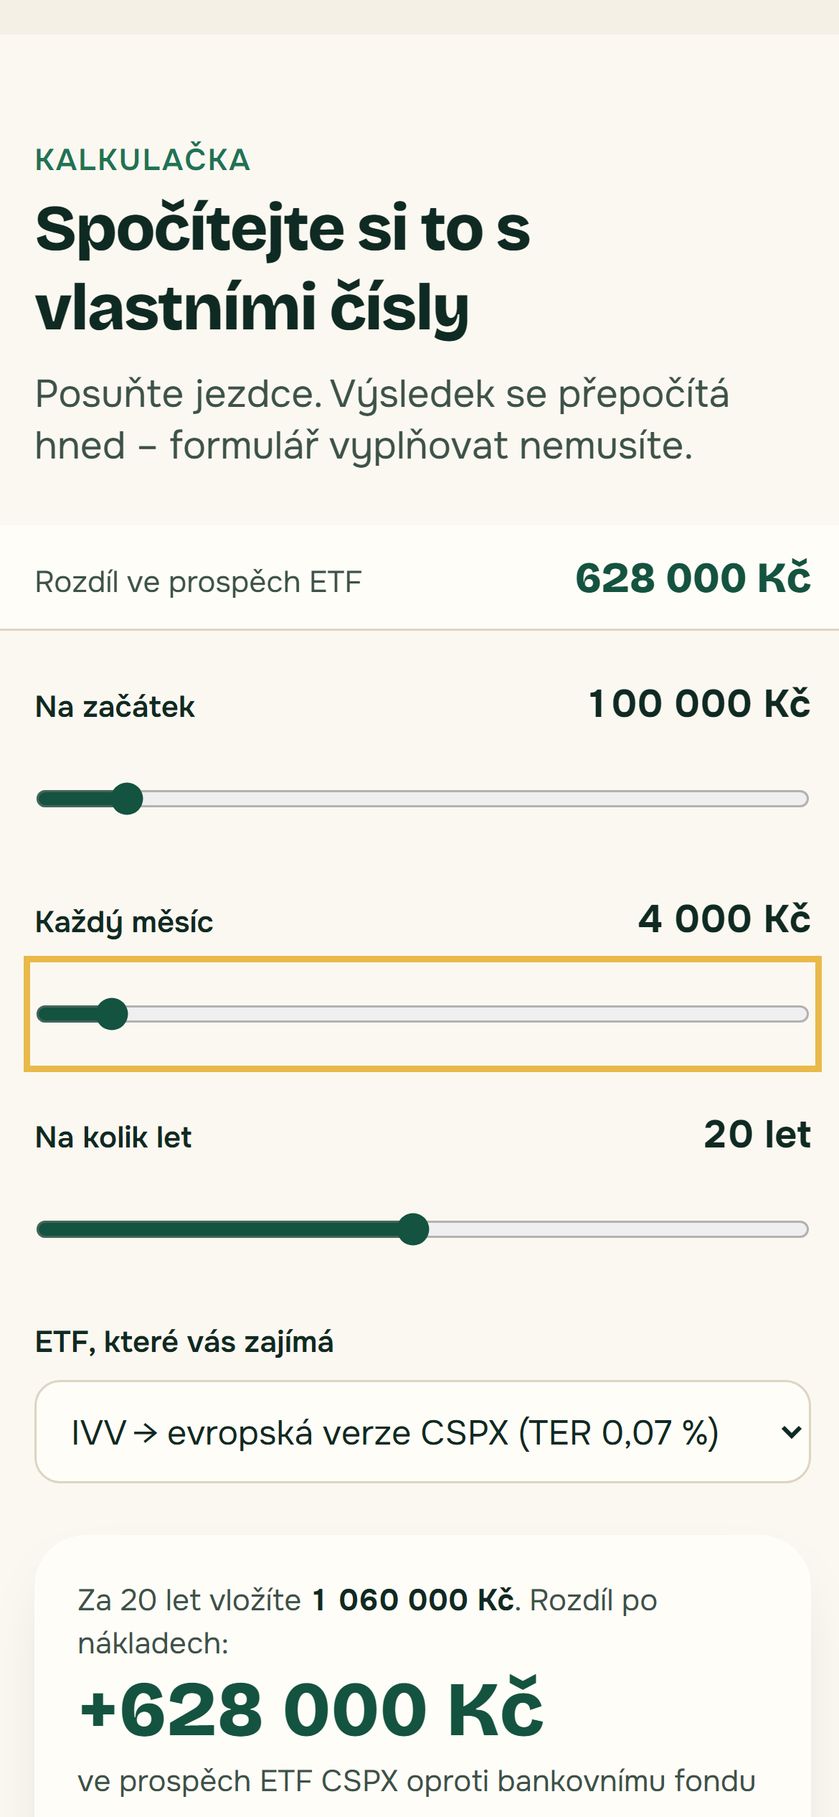
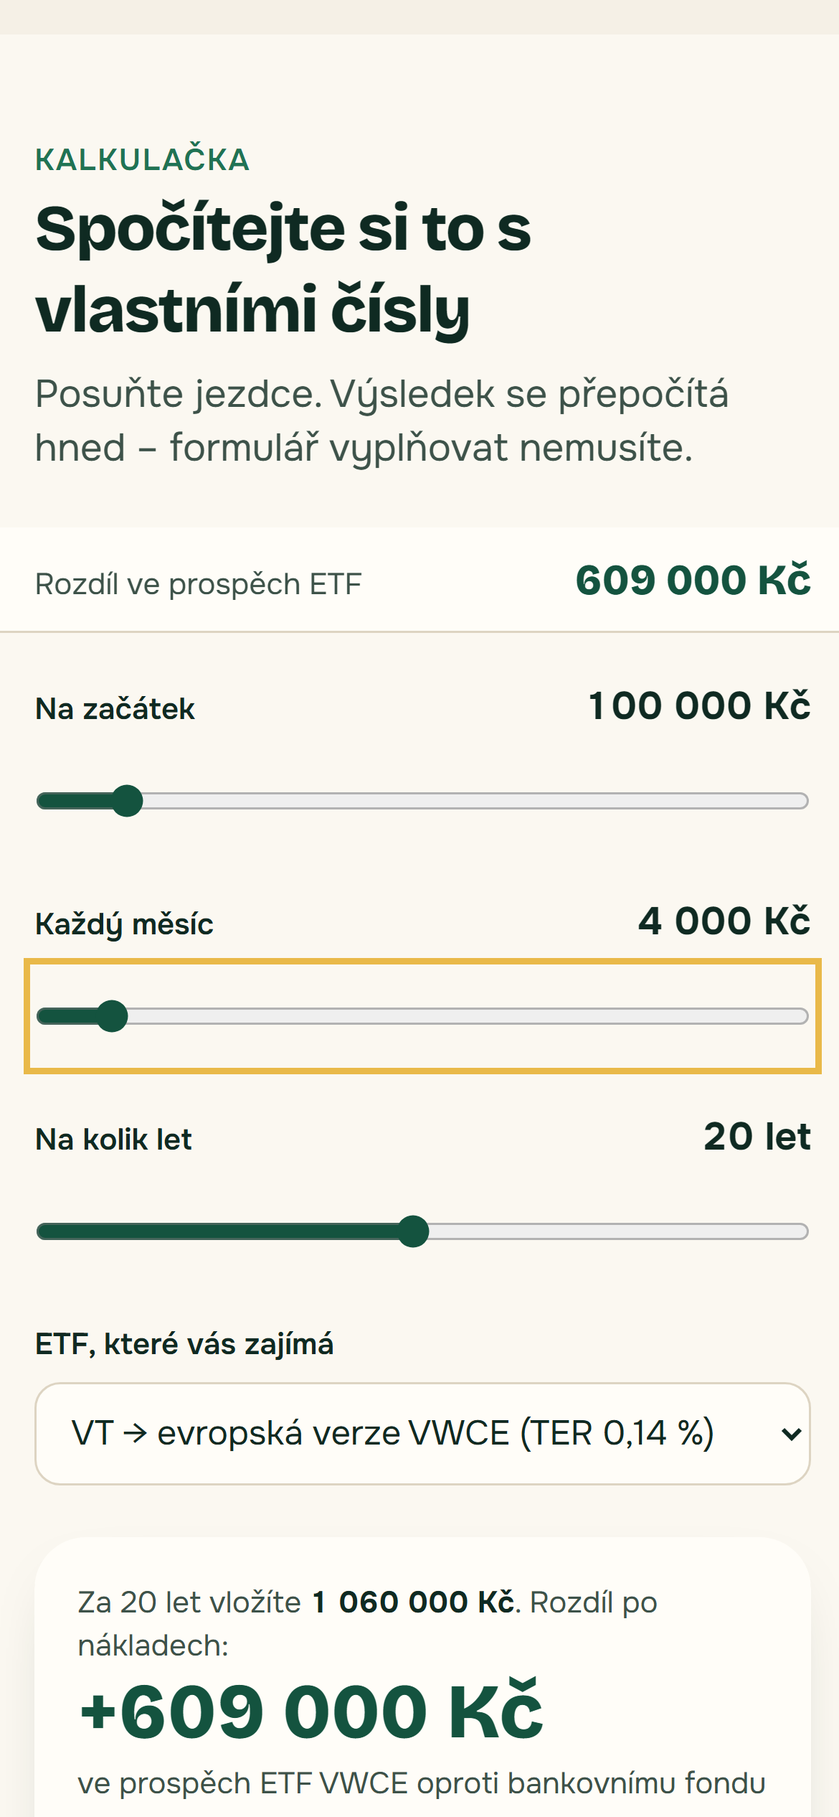
feat: výchozí srovnání s globálním ETF VT/VWCE, reklama A „přes 400 000 Kč“, vstupní poplatek „max. 3 % dle KID“
- ČSOB Akciový zodpovědný podle KID (1. 6. 2026) investuje hlavně v USA a Evropě (65 % MSCI USA + 35 % MSCI Europe), ne do S&P 500 – výňatky v data/raw/evidence.json
- hero A i reklama A: „přes 400 000 Kč“ (zaokrouhleno dolů z modelových 489 000 Kč, platí i bez vstupního poplatku)
- kalkulačka: řádek „Bez vstupního poplatku by rozdíl byl …“ a poznámka o rozdílném portfoliu
- reklama, test reklamy, README a screenshoty v docs/ podle nových čísel

diff --git a/src/components/Hero.tsx b/src/components/Hero.tsx
@@ -1,5 +1,5 @@
-import { compare, DEFAULT_INPUT, formatCzk, roundForDisplay } from "@/lib/calc";
-import { bankCost, bankFund, etfCost, fees, findFund, formatDate, formatTer, funds, performanceAsOf } from "@/lib/data";
+import { compare, DEFAULT_INPUT, floorForClaim, formatCzk, roundForDisplay } from "@/lib/calc";
+import { bankCost, bankFund, entryFeeLabel, etfCost, fees, findFund, formatDate, formatTer, funds, performanceAsOf } from "@/lib/data";
 import { Brand } from "./Brand";
 import { CtaLink } from "./CtaLink";
 
@@ -27,7 +27,7 @@ export function HeroFees() {
             Kolik vám za 20 let sní poplatky fondu?
           </h1>
           <p className="mt-3 text-lg leading-snug text-ink-soft">
-            Stejný akciový trh, jiné náklady. Podívejte se na rozdíl mezi bankovním fondem a ETF – bez registrace.
+            Globální ETF místo fondu na akcie USA a Evropy. Podívejte se, kolik udělají rozdíl samotné náklady – bez registrace.
           </p>
         </div>
 
@@ -36,14 +36,14 @@ export function HeroFees() {
             Modelový příklad: {formatCzk(DEFAULT_INPUT.initial)} na začátek + {formatCzk(DEFAULT_INPUT.monthly)} měsíčně, {DEFAULT_INPUT.years} let
           </p>
           <p className="tabular mt-2 font-display text-[2.6rem] font-extrabold leading-none text-gold sm:text-6xl">
-            {formatCzk(roundForDisplay(r.difference))}
+            přes {formatCzk(floorForClaim(r.difference))}
           </p>
-          <p className="mt-1 text-sm text-paper/80">navíc by vám zůstalo v ETF*</p>
+          <p className="mt-1 text-sm text-paper/80">navíc by vám zůstalo v globálním ETF* (v modelu {formatCzk(roundForDisplay(r.difference))})</p>
 
           <div className="mt-4 grid gap-2.5 text-sm" aria-hidden>
             <div>
               <div className="flex justify-between">
-                <span>ETF {fund.ucits.ticker}</span>
+                <span>Globální ETF {fund.ucits.ticker}</span>
                 <span className="tabular font-semibold">{formatCzk(roundForDisplay(r.etf))}</span>
               </div>
               <div className="mt-1 h-3 rounded-full bg-paper/15">
@@ -52,7 +52,7 @@ export function HeroFees() {
             </div>
             <div>
               <div className="flex justify-between">
-                <span>Bankovní akciový fond</span>
+                <span>Bankovní fond na akcie USA a Evropy</span>
                 <span className="tabular font-semibold">{formatCzk(roundForDisplay(r.bank))}</span>
               </div>
               <div className="mt-1 h-3 rounded-full bg-paper/15">
@@ -65,7 +65,7 @@ export function HeroFees() {
             Spočítat s mými čísly
           </CtaLink>
           <p className="mt-3 text-[11px] leading-snug text-paper/70">
-            *Výnos {fees.assumptions.grossReturn} % ročně před náklady pro obě varianty. Bankovní fond: náklady dle KID {bankFund.name} ({formatDate(bankFund.kidDate)}),
+            *Výnos {fees.assumptions.grossReturn} % ročně před náklady pro obě varianty. Bankovní fond {bankFund.name}: vstup {entryFeeLabel} ({formatDate(bankFund.kidDate)}), průběžně {bankFund.ongoing.toLocaleString("cs-CZ")} % ročně,
             ETF: TER {formatTer(fund.ucits.ter)} + {fees.etfSide.brokerCostPerDeposit.toLocaleString("cs-CZ")} % z vkladu. Nejde o investiční doporučení.
           </p>
         </div>

diff --git a/src/components/Calculator.tsx b/src/components/Calculator.tsx
@@ -1,8 +1,8 @@
 "use client";
 
 import { useEffect, useRef } from "react";
-import { LIMITS, formatCzk, roundForDisplay, type CalcInput } from "@/lib/calc";
-import { bankFund, fees, findFund, formatDate, formatTer, funds } from "@/lib/data";
+import { LIMITS, compare, formatCzk, roundForDisplay, type CalcInput } from "@/lib/calc";
+import { bankCost, bankFund, entryFeeLabel, etfCost, fees, findFund, formatDate, formatTer, funds } from "@/lib/data";
 import { track, trackOnce } from "@/lib/track";
 import { GrowthChart } from "./GrowthChart";
 import { useLead } from "./LeadProvider";
@@ -24,6 +24,7 @@ export function Calculator() {
   const { input, setInput, result, etf, setEtf } = useLead();
   const resultRef = useRef<HTMLParagraphElement>(null);
   const fund = findFund(etf);
+  const noEntry = compare(input, { ...bankCost, entryPct: 0 }, etfCost(fund.ticker));
 
   const interacted = useRef(false);
   const visible = useRef(false);
@@ -128,6 +129,10 @@ export function Calculator() {
           {formatCzk(roundForDisplay(Math.abs(result.difference)))}
         </p>
         <p className="mt-1 text-sm text-ink-soft">ve prospěch ETF {fund.ucits.ticker} oproti bankovnímu fondu</p>
+        <p className="tabular mt-1 text-sm text-ink-soft">
+          Bez vstupního poplatku by rozdíl byl {noEntry.difference < 0 ? "−" : ""}
+          {formatCzk(roundForDisplay(Math.abs(noEntry.difference)))}.
+        </p>
 
         <dl className="mt-4 grid grid-cols-2 gap-3 text-sm">
           <div className="rounded-2xl bg-mint-soft p-3">
@@ -150,7 +155,7 @@ export function Calculator() {
                 Modelový výnos {fees.assumptions.grossReturn} % ročně před náklady, stejný pro obě varianty. Nejde o předpověď ani slib výnosu.
               </li>
               <li>
-                Bankovní fond: {bankFund.name} – vstupní poplatek {bankFund.entry.toLocaleString("cs-CZ")} % z každého vkladu, průběžné náklady{" "}
+                Bankovní fond: {bankFund.name} – vstupní poplatek {entryFeeLabel} z každého vkladu, průběžné náklady{" "}
                 {bankFund.ongoing.toLocaleString("cs-CZ")} % ročně. Transakční náklady ({bankFund.transaction.toLocaleString("cs-CZ")} %) nezapočítáváme. Zdroj:{" "}
                 <a className="underline" href={bankFund.source.url} target="_blank" rel="noopener noreferrer">
                   sdělení klíčových informací (KID)
@@ -163,6 +168,11 @@ export function Calculator() {
                   emitent
                 </a>
                 , staženo {formatDate(fund.ucits.source.retrieved)}.
+              </li>
+              <li>
+                Srovnávací index fondu je {bankFund.benchmark} (KID, {formatDate(bankFund.kidDate)}). {fund.ucits.ticker} sleduje {fund.ucits.index}
+                {fund.ticker === "VT" ? " – je širší, obsahuje i Japonsko, další Asii a rozvíjející se trhy" : ""}. Fond měnové riziko většinou zajišťuje, ETF ne. Srovnání
+                ukazuje vliv nákladů, ne stejné portfolio.
               </li>
               <li>Náklady brokera a konverze měny: předpoklad {fees.etfSide.brokerCostPerDeposit.toLocaleString("cs-CZ")} % z každého vkladu (u různých brokerů se liší).</li>
               <li>Daně a inflaci nezohledňujeme. Minulá ani modelová výkonnost nezaručuje budoucí výnosy.</li>

diff --git a/ads/reklama-a-poplatky.html b/ads/reklama-a-poplatky.html
@@ -7,7 +7,7 @@
 <style>
   .lead { margin-top: 112px; font-size: 34px; white-space: nowrap; line-height: 1.3; color: rgba(245,240,230,.85); }
   h1 { margin-top: 14px; font-size: 84px; }
-  .num { white-space: nowrap; margin-top: 40px; font-family: "Bricolage Grotesque", sans-serif; font-weight: 800; font-size: 150px; line-height: 1; color: #e9b949; letter-spacing: -0.03em; }
+  .num { white-space: nowrap; margin-top: 40px; font-family: "Bricolage Grotesque", sans-serif; font-weight: 800; font-size: 124px; line-height: 1; color: #e9b949; letter-spacing: -0.03em; }
   .sub { margin-top: 10px; font-size: 34px; color: rgba(245,240,230,.85); }
   .bars { margin-top: 60px; margin-bottom: 48px; display: grid; gap: 22px; }
   .row { display: grid; gap: 12px; font-size: 30px; }
@@ -23,13 +23,13 @@
   </div>
   <p class="lead">100 000 Kč na začátek + 3 000 Kč měsíčně, 20 let</p>
   <h1>Kolik stojí poplatky fondu?</h1>
-  <p class="num">≈ 500 000 Kč</p>
-  <p class="sub">modelový rozdíl: bankovní akciový fond vs. ETF*</p>
+  <p class="num">přes 400 000 Kč</p>
+  <p class="sub">globální ETF místo fondu na akcie USA a Evropy*</p>
   <div class="bars">
-    <div class="row"><span>ETF na stejný trh</span><div class="track"><div class="fill" style="width:100%;background:#2f8f6b"></div></div></div>
-    <div class="row"><span>Bankovní akciový fond</span><div class="track"><div class="fill" style="width:69.6%;background:#c2410c"></div></div></div>
+    <div class="row"><span>Globální akciový ETF</span><div class="track"><div class="fill" style="width:100%;background:#2f8f6b"></div></div></div>
+    <div class="row"><span>Bankovní fond na akcie USA a Evropy</span><div class="track"><div class="fill" style="width:70.2%;background:#c2410c"></div></div></div>
   </div>
   <div class="cta">Spočítejte si svoje číslo →</div>
-  <p class="foot">*Modelový příklad, ne předpověď: výnos 6 % ročně před náklady pro obě varianty; náklady dle KID akciového fondu české banky (vstup 3 %, průběžně 2,65 % ročně) a TER ETF 0,07 % + 0,5 % z vkladu. Nejde o investiční doporučení.</p>
+  <p class="foot">*Modelový příklad, ne předpověď: výnos 6 % ročně před náklady pro obě varianty; náklady dle KID akciového fondu české banky (vstup max. 3 % dle KID, průběžně 2,65 % ročně) a TER globálního ETF 0,14 % + 0,5 % z vkladu. Srovnání ukazuje vliv nákladů, ne stejné portfolio. Nejde o investiční doporučení.</p>
 </body>
 </html>

diff --git a/src/lib/pdf.ts b/src/lib/pdf.ts
@@ -2,7 +2,7 @@ import fontkit from "@pdf-lib/fontkit";
 import { PDFDocument, rgb, type PDFFont, type PDFPage } from "pdf-lib";
 import { BUY_STEPS, TAX_RULES } from "@/content/overview";
 import { compare, formatCzk, roundForDisplay, type CalcInput } from "./calc";
-import { bankCost, bankFund, etfCost, fees, findFund, formatDate, formatTer } from "./data";
+import { bankCost, bankFund, entryFeeLabel, etfCost, fees, findFund, formatDate, formatTer } from "./data";
 
 const INK = rgb(0.059, 0.165, 0.133);
 const SOFT = rgb(0.24, 0.32, 0.29);
@@ -172,7 +172,7 @@ export async function buildOverviewPdf(input: CalcInput, ticker: string, generat
   chart(p1, fonts, M, w.y - 170, A4.w - 2 * M, 160, r.points);
   w.y -= 210;
   w.text(
-    `Předpoklady: výnos ${fees.assumptions.grossReturn} % ročně před náklady pro obě varianty. Bankovní fond ${bankFund.name}: vstupní poplatek ${bankFund.entry.toLocaleString("cs-CZ")} % z každého vkladu, průběžné náklady ${bankFund.ongoing.toLocaleString("cs-CZ")} % ročně (KID ze dne ${formatDate(bankFund.kidDate)}; transakční náklady ${bankFund.transaction.toLocaleString("cs-CZ")} % nezapočteny). ETF: TER ${formatTer(fund.ucits.ter)} ročně, náklady brokera a konverze ${fees.etfSide.brokerCostPerDeposit.toLocaleString("cs-CZ")} % z vkladu (předpoklad). Daně a inflace nezohledněny.`,
+    `Předpoklady: výnos ${fees.assumptions.grossReturn} % ročně před náklady pro obě varianty. Bankovní fond ${bankFund.name}: vstupní poplatek ${entryFeeLabel} z každého vkladu, průběžné náklady ${bankFund.ongoing.toLocaleString("cs-CZ")} % ročně (KID ze dne ${formatDate(bankFund.kidDate)}; transakční náklady ${bankFund.transaction.toLocaleString("cs-CZ")} % nezapočteny). ETF: TER ${formatTer(fund.ucits.ter)} ročně, náklady brokera a konverze ${fees.etfSide.brokerCostPerDeposit.toLocaleString("cs-CZ")} % z vkladu (předpoklad). Daně a inflace nezohledněny.`,
     { size: 8.5, color: SOFT, gap: 16 },
   );
 

diff --git a/src/lib/ads.test.ts b/src/lib/ads.test.ts
@@ -1,12 +1,20 @@
 import { describe, expect, it } from "vitest";
-import { compare, DEFAULT_INPUT } from "./calc";
-import { bankCost, etfCost, findFund } from "./data";
+import { readFileSync } from "node:fs";
+import { compare, DEFAULT_INPUT, floorForClaim, formatCzk } from "./calc";
+import { bankCost, etfCost, fees, findFund } from "./data";
 
 describe("tvrzení v reklamách odpovídají datům", () => {
-  it("reklama A: modelový rozdíl ≈ 500 000 Kč a poměr pruhů 69,6 %", () => {
-    const r = compare(DEFAULT_INPUT, bankCost, etfCost("IVV"));
-    expect(Math.abs(r.difference - 500_000)).toBeLessThan(15_000);
-    expect(Math.round((r.bank / r.etf) * 1000) / 10).toBe(69.6);
+  it("reklama A: „přes 400 000 Kč“ s globálním ETF i bez vstupního poplatku, poměr pruhů 70,2 %", () => {
+    const html = readFileSync("ads/reklama-a-poplatky.html", "utf8");
+    expect(fees.defaultEtf).toBe("VT");
+    const r = compare(DEFAULT_INPUT, bankCost, etfCost("VT"));
+    const noEntry = compare(DEFAULT_INPUT, { ...bankCost, entryPct: 0 }, etfCost("VT"));
+    expect(floorForClaim(r.difference)).toBe(400_000);
+    expect(floorForClaim(noEntry.difference)).toBe(400_000);
+    expect(html).toContain(`přes ${formatCzk(floorForClaim(r.difference)).replace(/\s/g, " ")}`);
+    expect(Math.round((r.bank / r.etf) * 1000) / 10).toBe(70.2);
+    expect(html).toContain("width:70.2%");
+    expect(html).toContain("TER globálního ETF 0,14 %");
   });
 
   it("reklama B: TER evropských verzí", () => {

diff --git a/src/components/Overview.tsx b/src/components/Overview.tsx
@@ -1,7 +1,7 @@
 "use client";
 
 import { compare, formatCzk, roundForDisplay, type CalcInput } from "@/lib/calc";
-import { bankCost, bankFund, etfCost, fees, findFund, formatDate, formatTer } from "@/lib/data";
+import { bankCost, bankFund, entryFeeLabel, etfCost, fees, findFund, formatDate, formatTer } from "@/lib/data";
 import { GrowthChart } from "./GrowthChart";
 import { PdfButton } from "./PdfButton";
 import { BUY_STEPS, TAX_RULES } from "@/content/overview";
@@ -47,7 +47,7 @@ export function Overview({ input, etf, email }: { input: CalcInput; etf: string;
           <GrowthChart points={r.points} title="Vývoj hodnoty investice podle vašich čísel" />
         </div>
         <p className="mt-2 text-xs text-ink-soft">
-          Výnos {fees.assumptions.grossReturn} % ročně před náklady. Bankovní fond {bankFund.name}: vstup {bankFund.entry.toLocaleString("cs-CZ")} %, průběžně{" "}
+          Výnos {fees.assumptions.grossReturn} % ročně před náklady. Bankovní fond {bankFund.name}: vstup {entryFeeLabel}, průběžně{" "}
           {bankFund.ongoing.toLocaleString("cs-CZ")} % ročně (KID, {formatDate(bankFund.kidDate)}). ETF: TER {formatTer(fund.ucits.ter)}, náklady brokera{" "}
           {fees.etfSide.brokerCostPerDeposit.toLocaleString("cs-CZ")} % z vkladu (předpoklad).
         </p>

diff --git a/src/lib/lead.ts b/src/lib/lead.ts
@@ -1,4 +1,5 @@
 import { sanitize } from "./calc";
+import { fees } from "./data";
 
 export type LeadPayload = {
   email: string;
@@ -23,7 +24,7 @@ export function parseLead(raw: Record<string, unknown>): { ok: true; lead: LeadP
   const consent = raw.consent === true || raw.consent === "on";
   if (!consent) return { ok: false, error: "consent_missing" };
   const input = sanitize({ initial: Number(raw.initial), monthly: Number(raw.monthly), years: Number(raw.years) });
-  const etf = TICKERS.includes(String(raw.etf)) ? String(raw.etf) : "IVV";
+  const etf = TICKERS.includes(String(raw.etf)) ? String(raw.etf) : fees.defaultEtf;
   return {
     ok: true,
     lead: {

diff --git a/src/lib/data.ts b/src/lib/data.ts
@@ -39,6 +39,8 @@ export const bankFund = feesJson.bankFund;
 
 export const bankCost: CostModel = { entryPct: bankFund.entry, ongoingPct: bankFund.ongoing };
 
+export const entryFeeLabel = `max. ${bankFund.entry.toLocaleString("cs-CZ")} % dle KID`;
+
 export function etfCost(ticker: string): CostModel {
   const fund = funds.find((f) => f.ticker === ticker) ?? funds[0];
   return { entryPct: fees.etfSide.brokerCostPerDeposit, ongoingPct: fund.ucits.ter };

diff --git a/src/lib/calc.ts b/src/lib/calc.ts
@@ -91,6 +91,10 @@ export function formatCzk(value: number) {
   return `${czk.format(Math.round(value))}\u00a0Kč`;
 }
 
+export function floorForClaim(value: number) {
+  return Math.floor(value / 100_000) * 100_000;
+}
+
 export function roundForDisplay(value: number) {
   if (value >= 100_000) return Math.round(value / 1_000) * 1_000;
   return Math.round(value / 100) * 100;

diff --git a/README.md b/README.md
@@ -42,7 +42,7 @@ Dvě varianty podle reklamy (message match). Přepíná je `src/proxy.ts` podle 
 
 | # | Varianta A – „poplatky“ | Varianta B – „srovnání“ | Proč tady |
 |---|---|---|---|
-| 1 | **Hero:** „Kolik vám za 20 let sní poplatky fondu?“ + modelový rozdíl ≈ 505 000 Kč, pruhy, CTA | **Hero:** „VOO, SPY, nebo VT? Tohle z Česka opravdu koupíte.“ + 3 dvojice tickerů s TER, CTA | Navazuje doslova na slib reklamy; odpověď je nad ohybem, hodnota je zřejmá před formulářem. |
+| 1 | **Hero:** „Kolik vám za 20 let sní poplatky fondu?“ + „přes 400 000 Kč“ jako v reklamě A (modelově 489 000 Kč, globální ETF VWCE vs. fond na akcie USA a Evropy), pruhy, CTA | **Hero:** „VOO, SPY, nebo VT? Tohle z Česka opravdu koupíte.“ + 3 dvojice tickerů s TER, CTA | Navazuje doslova na slib reklamy; odpověď je nad ohybem, hodnota je zřejmá před formulářem. |
 | 2 | **Kalkulačka** + formulář pod výsledkem | **Proč VOO z Česka nekoupíte** (KID/PRIIPs ve 3 krocích) | A: návštěvník chce „svoje číslo“. B: překvapivá informace z reklamy potřebuje vysvětlení, jinak nevěří. |
 | 3 | **Proč VOO z Česka nekoupíte** | **Srovnání 5 ETF ↔ UCITS** s CTA na každé kartě | A: druhá vrstva hodnoty pro ty, které čísla nezaujala. B: jádro slibu reklamy. |
 | 4 | **Srovnání 5 ETF ↔ UCITS** | **Kalkulačka** + formulář | A: vstup ke kontaktu přes konkrétní fond. B: po výběru ETF si spočítá, kolik ušetří. |
@@ -57,8 +57,8 @@ Po odeslání se mezi sekce 4 a 5 vloží **osobní přehled** a stránka na ně
 Všechna čísla načítá skript `npm run data` (`scripts/fetch-data.mjs`) ze **surových dat emitentů** (HTML, JSON API, PDF factsheety a KID) – ne ze sumarizací. Důvod: v kroku ověřování automatický sumarizátor posunul sloupce výkonnosti u SPY; chyba se odhalila porovnáním s VOO (stejný index). Výstup:
 
 - `data/etf.json` – 5 ETF z NYSE Arca (SPY, IVV, VOO, VT, VWO): burza (adresář Nasdaq Trader), TER, aktiva, výkonnost NAV k 30. 9. 2026, UCITS ekvivalent (SPYL, CSPX, VUAA, VWCE, VFEA) s TER, ISIN a odkazem na justETF. Každá hodnota má URL zdroje, datum a poznámku.
-- `data/fees.json` – bankovní fond z KID, předpoklady výpočtu.
-- `data/raw/evidence.json` – důkazní výňatky ze zdrojů (34 položek).
+- `data/fees.json` – bankovní fond z KID (náklady, cíl fondu, referenční hodnota, zajištění měny), předpoklady výpočtu, výchozí ETF (VT).
+- `data/raw/evidence.json` – důkazní výňatky ze zdrojů (37 položek).
 
 Testy (`npm test`) hlídají výpočet i to, že čísla v reklamách odpovídají datům.
 
@@ -67,7 +67,7 @@ Testy (`npm test`) hlídají výpočet i to, že čísla v reklamách odpovídaj
 | Rozhodnutí | Důvod |
 |---|---|
 | **Konkrétní brokery neuvádíme.** Text „u brokerů, kteří nabízejí UCITS ETF“ + u každého UCITS ETF odkaz na justETF. | Dostupnost konkrétních fondů u konkrétních brokerů se nepodařilo ověřit z primárních zdrojů. |
-| **Srovnávací bankovní fond: ČSOB Akciový zodpovědný** (KID ze dne 1. 6. 2026; vstup max. 3 %, průběžné náklady 2,65 % ročně). | Preferovaný Top Stocks (Erste/ČS) nemá veřejně dohledatelný KID z roku 2026 (nalezený dokument z 2026 je factsheet, KID je z 22. 5. 2023). Transakční náklady (0,42 %) nezapočítáváme – konzervativně. |
+| **Srovnávací bankovní fond: ČSOB Akciový zodpovědný** (KID ze dne 1. 6. 2026; vstup max. 3 % dle KID, průběžné náklady 2,65 % ročně). Výchozí ETF pro srovnání je **VT → VWCE** (FTSE All-World). | Preferovaný Top Stocks (Erste/ČS) nemá veřejně dohledatelný KID z roku 2026 (nalezený dokument z 2026 je factsheet, KID je z 22. 5. 2023). Transakční náklady (0,42 %) nezapočítáváme – konzervativně. Podle KID fond investuje „na světových trzích, a to zejména na trzích USA a Evropy“, referenční hodnota je 65 % MSCI USA + 35 % MSCI Europe. Nejbližší z našich ETF je proto globální VWCE, ne S&P 500. VWCE je ale širší (i Japonsko, další Asie, rozvíjející se trhy) a fond měnové riziko většinou zajišťuje, ETF ne, takže srovnání ukazuje vliv nákladů, ne stejné portfolio. Říká to i poznámka pod kalkulačkou. |
 | **Modelový výnos 6 % p. a.** pro obě varianty, náklady brokera 0,5 % z vkladu (předpoklad). | Rozdíl tak ukazuje jen vliv nákladů; předpoklady jsou pod grafem, v hero, v PDF i v reklamě. |
 | **Lead magnet jako „Osobní přehled“** – modelový výpočet a přehled možností. | Konkrétní doporučení nákupu by se blížilo investičnímu poradenství, na které TrustOne nemá oprávnění. |
 | **Next.js se statickými stránkami + jedna serverová funkce `/api/lead`.** | API klíč k Brevo nesmí být v prohlížeči; čistý statický export by serverovou funkci neuměl. |

diff --git a/ads/README.md b/ads/README.md
@@ -9,13 +9,13 @@ Obrázky se generují z HTML šablon: `npm run ads` (výstup `reklama-a-poplatky
 
 | Pole v Meta | Text |
 |---|---|
-| Primární text | Kolik stojí poplatky fondu? Modelový příklad: 100 000 Kč na začátek a 3 000 Kč měsíčně po dobu 20 let. Rozdíl mezi bankovním akciovým fondem a ETF na stejný trh vychází zhruba na 500 000 Kč.* Spočítejte si to s vlastními čísly – zdarma a bez registrace.<br><br>*Výnos 6 % ročně před náklady pro obě varianty, náklady dle KID fondu a TER ETF. Nejde o investiční doporučení. |
+| Primární text | Kolik stojí poplatky fondu? Modelový příklad: 100 000 Kč na začátek a 3 000 Kč měsíčně po dobu 20 let. Globální akciový ETF místo bankovního fondu na akcie USA a Evropy: rozdíl vychází přes 400 000 Kč.* Spočítejte si to s vlastními čísly – zdarma a bez registrace.<br><br>*Výnos 6 % ročně před náklady pro obě varianty, náklady dle KID fondu (vstup max. 3 % dle KID) a TER ETF. Srovnání ukazuje vliv nákladů, ne stejné portfolio. Nejde o investiční doporučení. |
 | Nadpis | Spočítejte si, kolik stojí poplatky |
 | Popis | Kalkulačka s daty z KID a od emitentů |
 | Tlačítko | Zjistit více |
 | URL | `https://etf-landing-page-three.vercel.app/?utm_source=meta&utm_medium=paid_social&utm_campaign=etf_leadgen&utm_content=a_fees` |
 
-**Navazující první obrazovka:** nadpis „Kolik vám za 20 let sní poplatky fondu?“ a stejný modelový příklad (≈ 505 000 Kč, zaokrouhleno v reklamě dolů na ≈ 500 000 Kč) s předpoklady pod číslem.
+**Navazující první obrazovka:** nadpis „Kolik vám za 20 let sní poplatky fondu?“ a stejný modelový příklad: velké číslo „přes 400 000 Kč“ jako v reklamě, pod ním přesná modelová hodnota (489 000 Kč) a předpoklady. Obojí se počítá z dat (`floorForClaim` a `roundForDisplay` v `src/lib/calc.ts`). „Přes 400 000 Kč“ platí i bez vstupního poplatku (453 000 Kč).
 
 ## Varianta B – srovnání (`utm_content=b_compare`)
 
